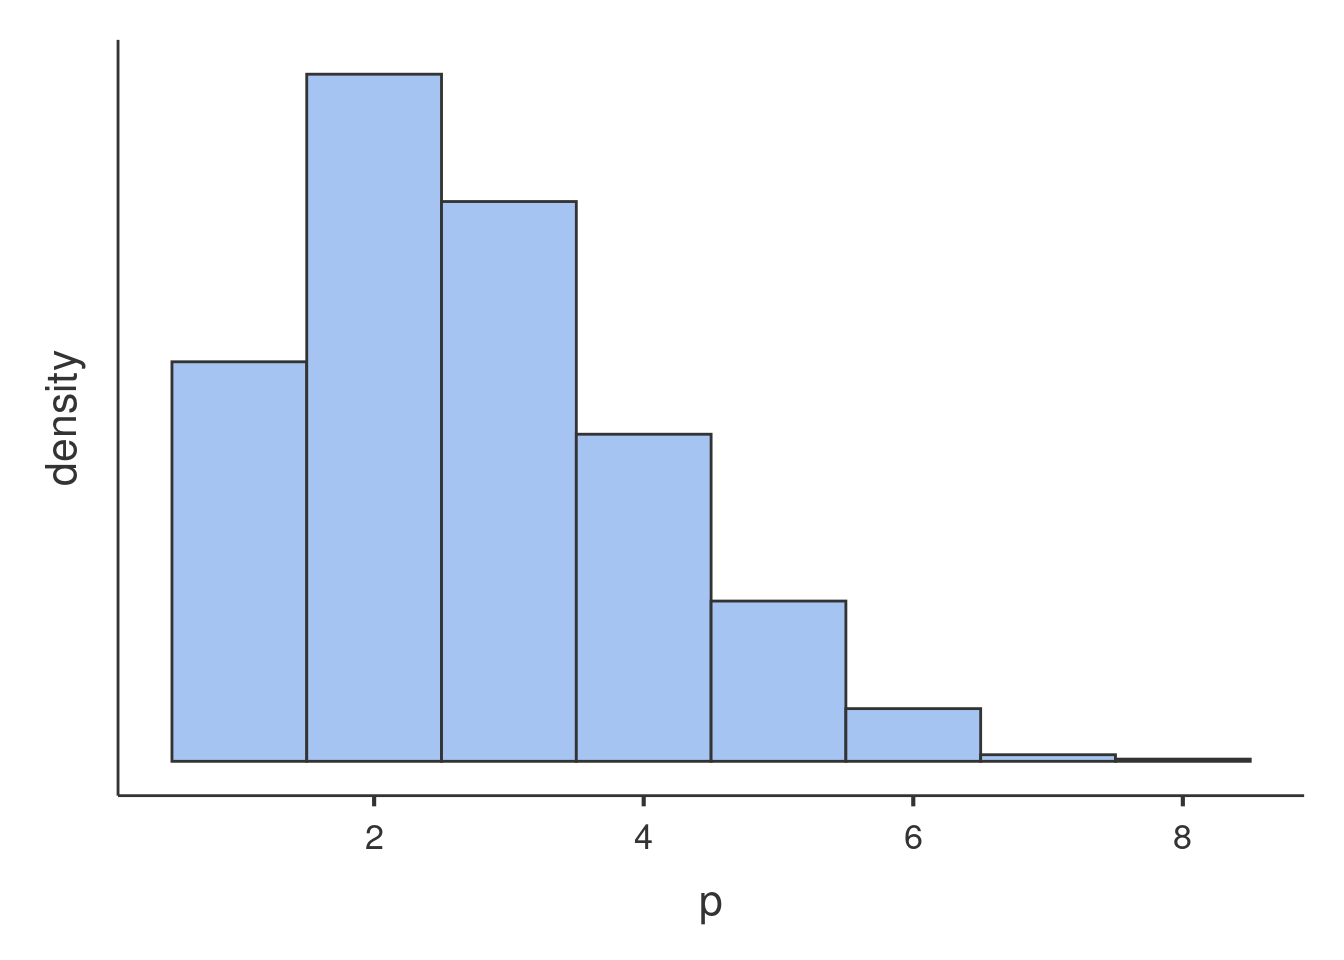
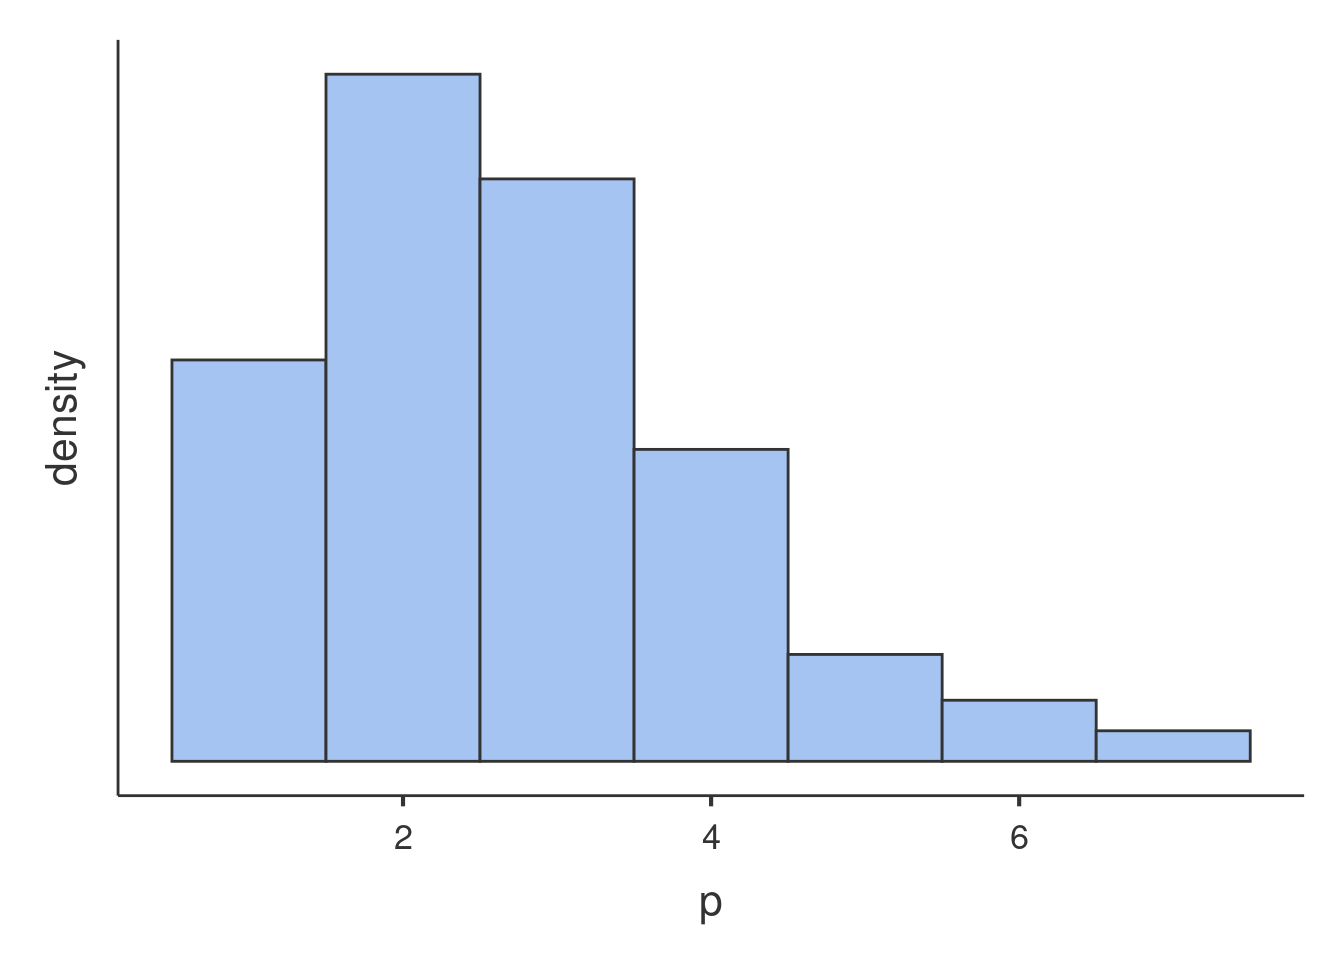
updates

diff --git a/glmmixed_example2.html b/glmmixed_example2.html
@@ -383,7 +383,7 @@ div.tocify {
 <p><img src="glmmixed_example2_files/figure-html/unnamed-chunk-2-1.png" width="672" /></p>
 <p>Glancing at the histogram makes it clear that the distribution is not normal, but it roughly resembles the Poisson distribution. Here is an example of Poisson distribution with equivalent mean.</p>
 <p><img src="glmmixed_example2_files/figure-html/unnamed-chunk-3-1.png" width="672" /></p>
-<p>We can see that the shape of our distribution is not qualitatively very different as compared with a theoretical Poisson distribution, so a Generalized Linear Model with Poisson distribition may work. However, we can check wheather our distribution is in line with the features of the Poisson dist by checking its mean and variance. The Poisson distribution has variance equal to the mean, in fact the simulated distribution in the histogram has <span class="math inline">\(\bar{x}=1.707\)</span> and <span class="math inline">\(s^2=1.687\)</span>. The <code>art</code> variable distribution has <span class="math inline">\(\bar{x}=1.693\)</span> and <span class="math inline">\(s^2=3.71\)</span>, with a ratio variance/mean of 2.191, which does not really qualify for Poisson dist. This looks like a case of <strong>overdispersion</strong>, <a href="http://bbolker.github.io/mixedmodels-misc/glmmFAQ.html#overdispersion">cf. here for details</a>. We will than consider a Negative Binomial model to account for possible overdispersion.</p>
+<p>We can see that the shape of our distribution is not qualitatively very different as compared with a theoretical Poisson distribution, so a Generalized Linear Model with Poisson distribition may work. However, we can check wheather our distribution is in line with the features of the Poisson dist by checking its mean and variance. The Poisson distribution has variance equal to the mean, in fact the simulated distribution in the histogram has <span class="math inline">\(\bar{x}=1.698\)</span> and <span class="math inline">\(s^2=1.777\)</span>. The <code>art</code> variable distribution has <span class="math inline">\(\bar{x}=1.693\)</span> and <span class="math inline">\(s^2=3.71\)</span>, with a ratio variance/mean of 2.191, which does not really qualify for Poisson dist. This looks like a case of <strong>overdispersion</strong>, <a href="http://bbolker.github.io/mixedmodels-misc/glmmFAQ.html#overdispersion">cf. here for details</a>. We will than consider a Negative Binomial model to account for possible overdispersion.</p>
 <p>An example of Negative Binomial distribution with equivalent mean and variance is here.</p>
 <p><img src="glmmixed_example2_files/figure-html/unnamed-chunk-4-1.png" width="672" /></p>
 <p>The second issue one needs to deal with is the structure of the data. We have seen that the students are not a random sample of students drawn independently one each other, but they are grouped by the program they are enrolled in. There are 83 programs, in each program there are on average 11 students. Because students in the same program may be more similar one each other than across programs, <code>programs</code> may cluster the scores of the dependent variable and create dependency in the data. To take dependency into the account, we will use a random intercepts model estimated with a Generalized Mixed Model.</p>

diff --git a/style.css b/style.css
@@ -1,3 +1,6 @@
+body {
+   line-height: 120%;
+}
 
 .img-responsive {
   padding: 15px;
